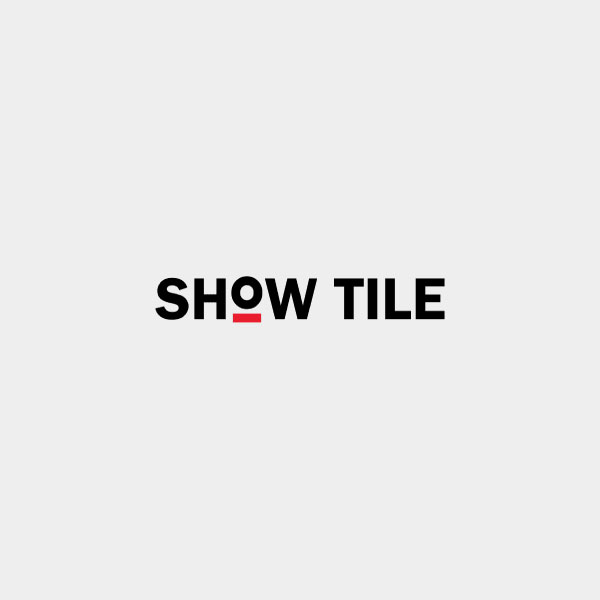
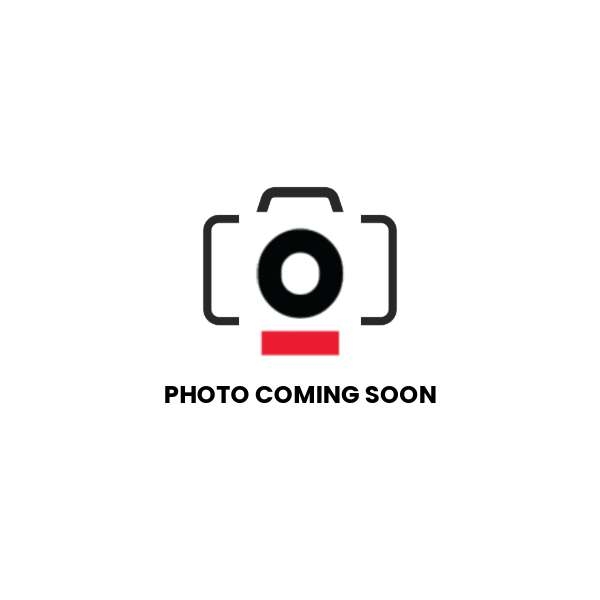
2026101401

Changed region(s): [[0.24, 0.36, 0.75, 0.6], [0.27, 0.63, 0.75, 0.69], [0.42, 0.3, 0.57, 0.36]]

diff --git a/api-update-prices.php b/api-update-prices.php
@@ -1,0 +1,108 @@
+<?php
+/**
+ * Custom REST API Endpoint to update tile prices
+ */
+
+// Register custom REST API endpoint
+add_action('rest_api_init', function () {
+    register_rest_route('st/v1', '/update-prices', array(
+        'methods' => 'POST',
+        'callback' => 'st_update_prices_callback',
+        'permission_callback' => 'st_update_prices_permissions_check',
+    ));
+});
+
+// Permission check (Highly recommended to uncomment and use an API key in production)
+function st_update_prices_permissions_check($request)
+{
+
+    $api_key = $request->get_header('x-api-key');
+    if ($api_key !== '9Ei02q2CEi08u') {
+        return new WP_Error('rest_forbidden', esc_html__('Invalid API Key.'), array('status' => 401));
+    }
+    return true;
+}
+
+// Callback function to handle the API request
+function st_update_prices_callback($request)
+{
+    $parameters = $request->get_json_params();
+
+    if (empty($parameters['updates']) || !is_array($parameters['updates'])) {
+        return new WP_Error('invalid_data', 'No updates array found in request body.', array('status' => 400));
+    }
+
+    $results = array();
+
+    foreach ($parameters['updates'] as $update) {
+        $product_id = isset($update['product_id']) ? intval($update['product_id']) : 0;
+        $finish = isset($update['finish']) ? sanitize_text_field($update['finish']) : '';
+        $size = isset($update['size']) ? sanitize_text_field($update['size']) : '';
+        $price = isset($update['price']) ? sanitize_text_field($update['price']) : '';
+
+        // Checking if necessary data is present
+        if (!$product_id || !$finish || !$size || $price === '') {
+            $results[] = array(
+                'product_id' => $product_id,
+                'status' => 'error',
+                'message' => 'Missing required fields (product_id, finish, size, price).'
+            );
+            continue;
+        }
+
+        // Get the entire repeater field data
+        $tile_finish = get_field('tile_finish', $product_id);
+        $updated = false;
+
+        if ($tile_finish && is_array($tile_finish)) {
+            // Loop through outer repeater (Finish)
+            foreach ($tile_finish as $finish_index => $finish_row) {
+                // If finish_name is a Select field returning an array, extract the value. Otherwise use it directly.
+                $current_finish_name = is_array($finish_row['finish_name']) ? $finish_row['finish_name']['value'] : $finish_row['finish_name'];
+
+                // Compare finish name (case-insensitive)
+                if (strcasecmp($current_finish_name, $finish) === 0) {
+                    // Match found for finish, now look for size in inner repeater
+                    if (isset($finish_row['tile_size']) && is_array($finish_row['tile_size'])) {
+                        foreach ($finish_row['tile_size'] as $size_index => $size_row) {
+                            // Compare size name (case-insensitive)
+                            if (strcasecmp($size_row['tile_size_name'], $size) === 0) {
+                                // Update the price in the array
+                                $tile_finish[$finish_index]['tile_size'][$size_index]['tile_size_price'] = $price;
+                                $updated = true;
+                                break 2; // Break out of both loops once found
+                            }
+                        }
+                    }
+                }
+            }
+        }
+
+        if ($updated) {
+            // Update the ACF field in the database. Using the field key is generally safer for complex repeaters.
+            // ACF Repeater Key for tile_finish is field_68d3799c30127
+            update_field('field_68d3799c30127', $tile_finish, $product_id);
+
+            $results[] = array(
+                'product_id' => $product_id,
+                'finish' => $finish,
+                'size' => $size,
+                'status' => 'success',
+                'message' => 'Price updated successfully.'
+            );
+        } else {
+            $results[] = array(
+                'product_id' => $product_id,
+                'finish' => $finish,
+                'size' => $size,
+                'status' => 'error',
+                'message' => 'Matching finish or size not found in this product.'
+            );
+        }
+    }
+
+    return rest_ensure_response(array(
+        'status' => 'completed',
+        'results' => $results
+    ));
+}

diff --git a/functions.php b/functions.php
@@ -22,6 +22,9 @@ function wc_redirect_404_with_params() {
 // Include sending email functionality
 require_once get_stylesheet_directory() . '/sending-email.php';
 
+// Include custom API for updating tile prices
+require_once get_stylesheet_directory() . '/api-update-prices.php';
+
 // Enqueue backend styles
 add_action( 'admin_enqueue_scripts', 'enqueue_backend_styles' );
 function enqueue_backend_styles() {
@@ -280,8 +283,16 @@ function get_collections_html($offset = 0, $limit = 12, $term_ids = null, $load_
             $title = get_the_title();
             $link = get_permalink();
             $collection_id = get_the_ID();
-            $collection_thumb_preview = get_the_post_thumbnail($collection_id, 'medium');
-            $collection_thumb_thumb = get_the_post_thumbnail($collection_id, 'thumbnail');
+
+            //default thumbnail
+            $collection_thumb_preview = get_stylesheet_directory_uri() . '/assets/img/ST-photo-coming-soon-450x450.webp';
+            $collection_thumb_thumb = get_stylesheet_directory_uri() . '/assets/img/ST-photo-coming-soon-80x80.webp';
+
+            //if has thumbnail
+            if(get_the_post_thumbnail($collection_id)){
+                $collection_thumb_preview = get_the_post_thumbnail($collection_id, 'medium');
+                $collection_thumb_thumb = get_the_post_thumbnail($collection_id, 'thumbnail');
+            }
 
             $slider_image_no = 0;
             $slider_thumb_no = 0;
@@ -567,15 +578,6 @@ function generate_collections_xml() {
                 $collection->appendChild($categories);
             }
             
-            /*
-            if ( is_wp_error( $terms ) ) {
-                error_log( 'WP Error Message: ' . $terms->get_error_message() ); // Tells you if taxonomy is invalid
-            } elseif ( empty( $terms ) ) {
-                error_log( 'Terms are empty/false. The post exists but has no terms assigned in this taxonomy.' );
-            } else {
-                error_log( 'Terms found: ' . print_r( $terms, true ) );
-            }*/
-
             // Images
             $images = $dom->createElement('images');
             $collection->appendChild($images);
